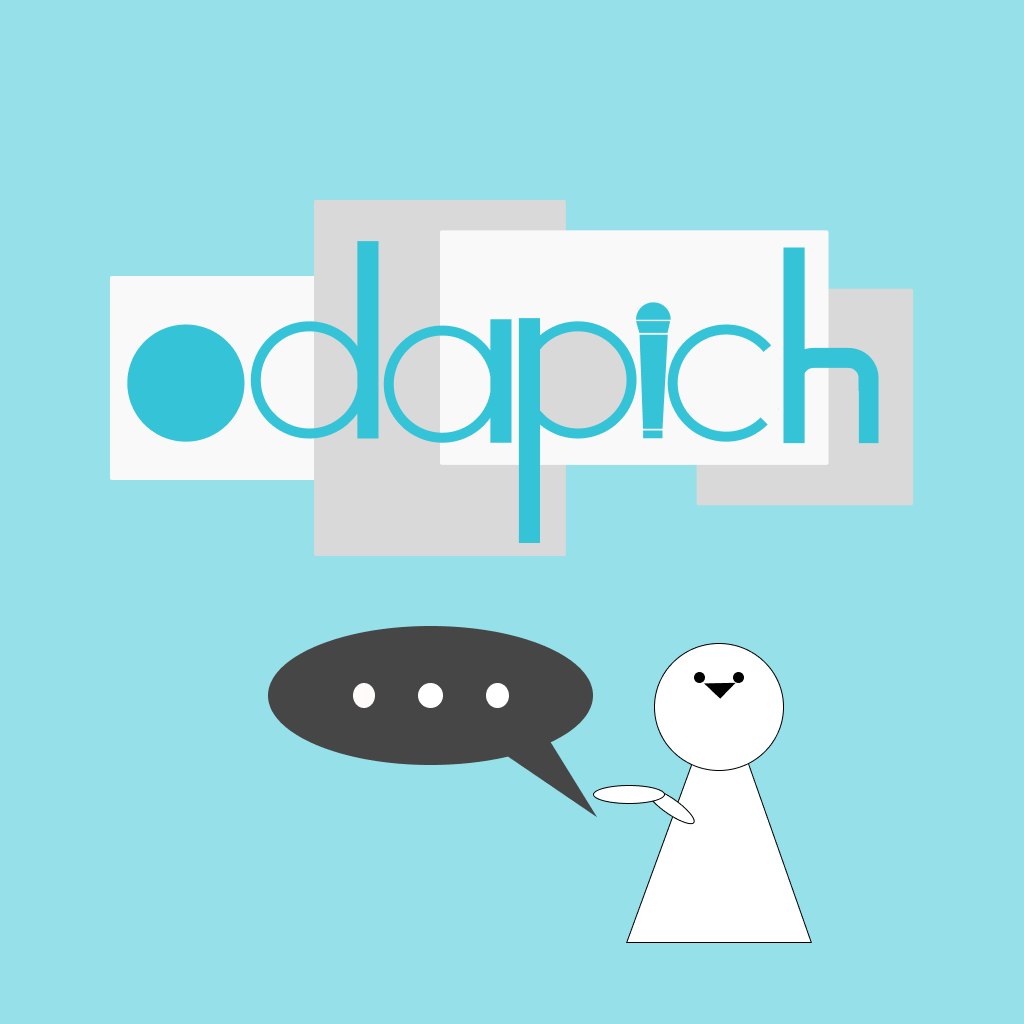
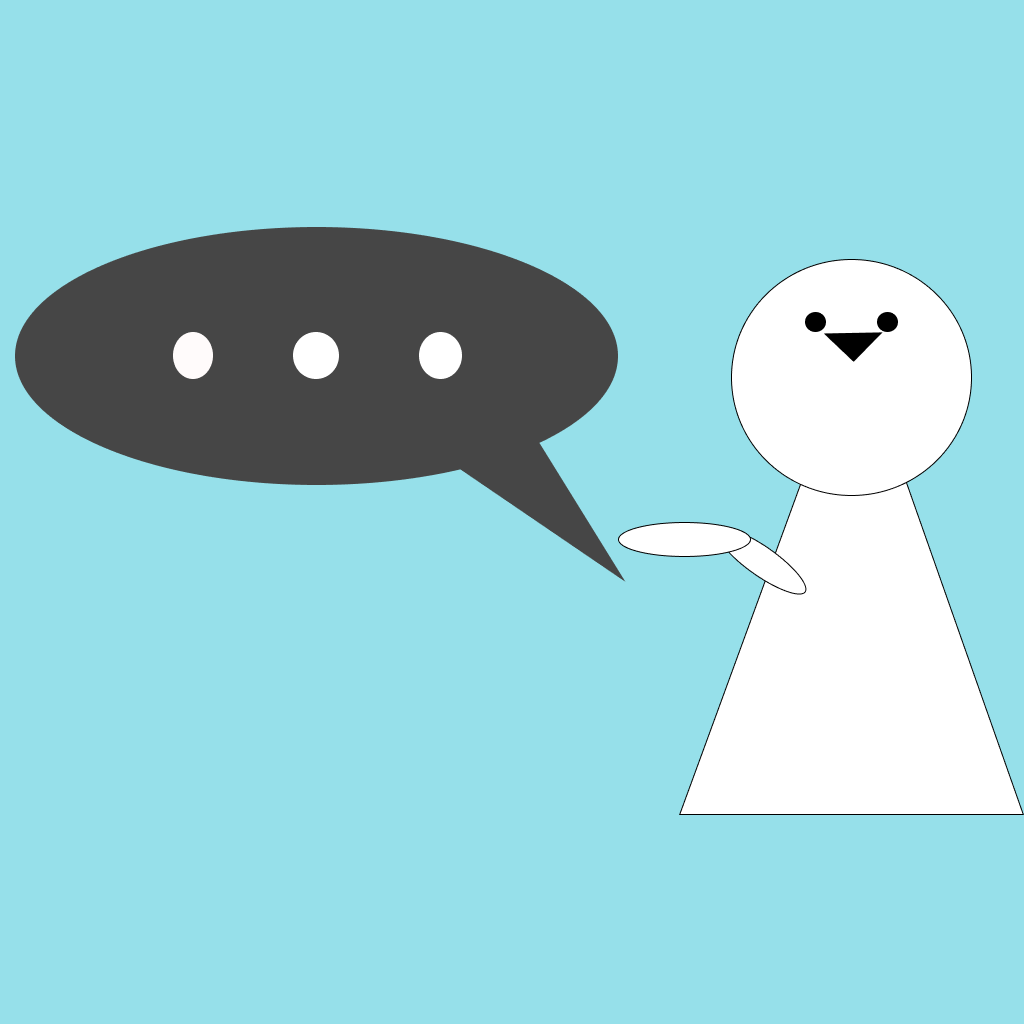
UI,アイコンともに変更

diff --git a/lib/screens/title_screen.dart b/lib/screens/title_screen.dart
@@ -1,4 +1,5 @@
 import 'package:flutter/material.dart';
+import 'package:flutter_svg/flutter_svg.dart';
 import 'package:url_launcher/url_launcher.dart';
 import 'setup_screen.dart'; // 「新規ゲーム」を押した後の行き先
 import 'help_screen.dart';
@@ -30,17 +31,21 @@ class _TitleScreenState extends State<TitleScreen> {
 
   /// クレジットダイアログを表示する。
   void _showCreditDialog() {
-    showAboutDialog(
+    showDialog<void>(
       context: context,
-      applicationName: AppTexts.appTitle,
-      applicationVersion: AppTexts.appVersion,
-      children: [
-        const SizedBox(height: 12),
-        const Text(
+      builder: (context) => AlertDialog(
+        title: Text('${AppTexts.appTitle} ${AppTexts.appVersion}'),
+        content: const Text(
           AppTexts.creditBody,
           style: TextStyle(fontSize: 13, height: 1.6),
         ),
-      ],
+        actions: [
+          TextButton(
+            onPressed: () => Navigator.pop(context),
+            child: const Text('閉じる'),
+          ),
+        ],
+      ),
     );
   }
 
@@ -101,8 +106,8 @@ class _TitleScreenState extends State<TitleScreen> {
             top: 0,
             left: 0,
             right: 0,
-            child: Image.asset(
-              'assets/images/GND_title_up.png',
+            child: SvgPicture.asset(
+              'assets/images/GND_title_up.svg',
               fit: BoxFit.fitWidth,
               alignment: Alignment.topCenter,
             ),
@@ -112,8 +117,8 @@ class _TitleScreenState extends State<TitleScreen> {
             bottom: 0,
             left: 0,
             right: 0,
-            child: Image.asset(
-              'assets/images/GND_title_down.png',
+            child: SvgPicture.asset(
+              'assets/images/GND_title_down.svg',
               fit: BoxFit.fitWidth,
               alignment: Alignment.bottomCenter,
             ),

diff --git a/lib/screens/presentation_screen.dart b/lib/screens/presentation_screen.dart
@@ -1,3 +1,4 @@
+import 'package:auto_size_text/auto_size_text.dart';
 import 'package:flutter/material.dart';
 import '../models/player.dart';
 import '../models/game_settings.dart';
@@ -177,21 +178,17 @@ class PresentationScreen extends StatelessWidget {
                     child: Column(
                       crossAxisAlignment: CrossAxisAlignment.center,
                       children: [
-                        // 吹き出し上部
+                        // 吹き出し上部の余白
                         const SizedBox(height: 88),
-                        Text(
-                          AppTexts.presentationTitle(player.name),
-                          style: AppTextStyles.headingSection.copyWith(
-                            fontWeight: FontWeight.w200,
-                          ),
-                        ),
-                        // タイトルを残りスペースの中央に
+                        // タイトルを吹き出しコンテナ内の中央に配置
                         Expanded(
                           child: Center(
-                            child: Text(
+                            child: AutoSizeText(
                               player.researchTitle,
                               textAlign: TextAlign.center,
                               style: AppTextStyles.valueDisplayLarge,
+                              maxLines: 3,
+                              minFontSize: 12,
                             ),
                           ),
                         ),

diff --git a/lib/screens/consent_screen.dart b/lib/screens/consent_screen.dart
@@ -1,4 +1,5 @@
 import 'package:flutter/material.dart';
+import 'package:flutter_svg/flutter_svg.dart';
 import 'package:url_launcher/url_launcher.dart';
 import '../constants/app_colors.dart';
 import '../constants/app_text_styles.dart';
@@ -39,8 +40,8 @@ class ConsentScreen extends StatelessWidget {
             top: 0,
             left: 0,
             right: 0,
-            child: Image.asset(
-              'assets/images/GND_title_up.png',
+            child: SvgPicture.asset(
+              'assets/images/GND_title_up.svg',
               fit: BoxFit.fitWidth,
               alignment: Alignment.topCenter,
             ),

diff --git a/lib/widgets/custom_banner_ad.dart b/lib/widgets/custom_banner_ad.dart
@@ -16,7 +16,7 @@ class _CustomBannerAdState extends State<CustomBannerAd> {
   // OSごとにGoogle公式のテスト用バナーIDを設定
   final String adUnitId = Platform.isAndroid
       ? 'ca-app-pub-3940256099942544/9214589741' // AndroidテストID
-      : 'ca-app-pub-3940256099942544/5135589851'; // iOSテストID
+      : 'ca-app-pub-3940256099942544/2934735716'; // iOSテストID
 
   @override
   void initState() {
